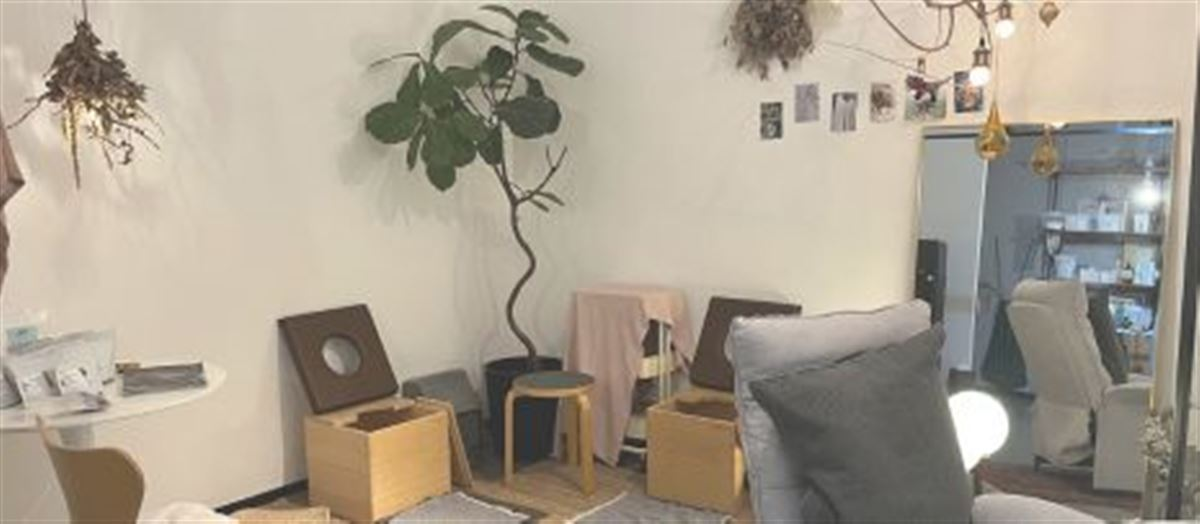
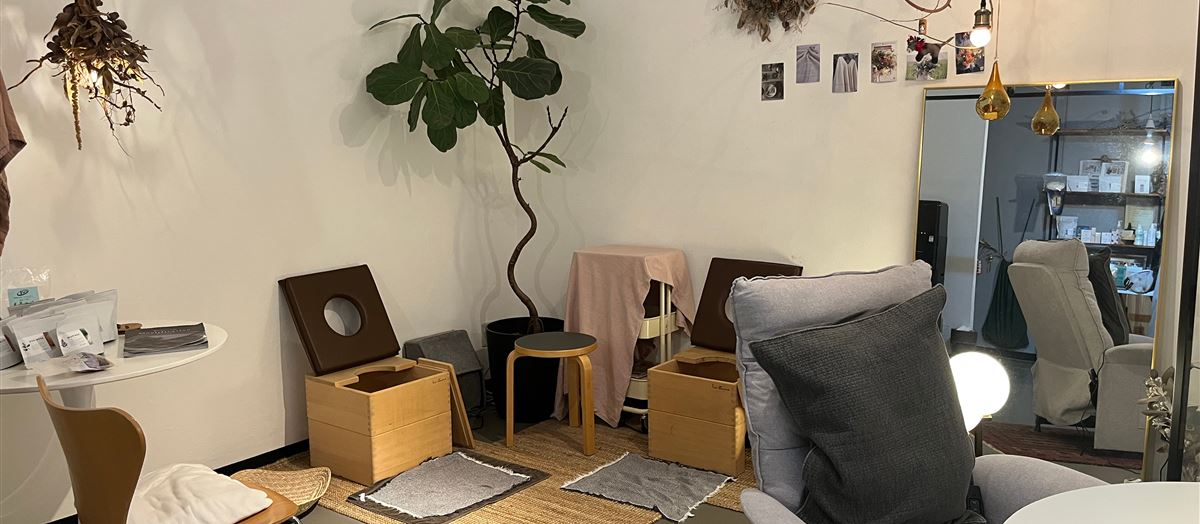
複数箇所の修正・差し替え(リード文簡略化/御塩写真位置統一/こだわり写真差し替え)
- index.html: リード文「はじめまして。ハダノコトサロンの河津順子です。」→「はじめまして。ハダノコトサロンです。」
- other.html: 御塩セクションの写真を価格表の下から本文と価格表の間に移動し、麹屋kinomamaセクションと同じ配置パターンに統一
- about.html: 「サロンのこだわり」セクションの写真をサロンのこだわり-1.jpgに差し替え(既存と同じ縦横比でトリミング、長辺1200px・品質80、白ヴェール適用)

diff --git a/other.html b/other.html
@@ -91,6 +91,7 @@
         <span class="ja">御塩</span>
       </h2>
       <p>天日だけでじっくり結晶化させ、1年以上寝かせてまろやかに仕上げた塩です。すくねっと公式パートナーとして取り扱っています。</p>
+      <div class="photo"><img src="assets/img/web/other-shio-sub.jpg" alt="御塩" width="1200" height="628" loading="lazy"></div>
       <ul class="price-list">
         <li><span>ソルトインダイヤモンド　30g（白湯・サプリ感覚に）</span><span class="price">4,500円</span></li>
         <li><span>ソルトインダイヤモンド　180g（白湯・サプリ感覚に）</span><span class="price">15,000円</span></li>
@@ -99,7 +100,6 @@
         <li><span>海の煌®（10年熟成）</span><span class="price">2,500円</span></li>
         <li><span>精の煌®（15年熟成）</span><span class="price">3,000円</span></li>
       </ul>
-      <div class="photo"><img src="assets/img/web/other-shio-sub.jpg" alt="御塩" width="1200" height="628" loading="lazy"></div>
     </div>
   </section>
 

diff --git a/index.html b/index.html
@@ -113,7 +113,7 @@
         <span class="ja">わたしたちの思い</span>
       </h2>
       <div class="poem">
-        <p>はじめまして。<br>ハダノコトサロンの河津順子です。</p>
+        <p>はじめまして。<br>ハダノコトサロンです。</p>
         <p>当サロンは、お一人おひとりと<br>ゆっくり向き合いたくて、<br>完全予約制・完全個室・<br>私ひとりで営んでいる小さなサロンです。</p>
         <p>目指しているのは、<br>その場かぎりの特別ではなく、<br>10年後も「今の自分がいちばん好き」と<br>思える素肌を、一緒に育てていくこと。</p>
         <p>がんばらなくていい、<br>お肌の土台づくりから始めませんか。</p>

diff --git a/about.html b/about.html
@@ -63,7 +63,7 @@
         <span class="sec-num">content 01</span>
         <span class="ja">サロンのこだわり</span>
       </h2>
-      <div class="photo photo--wide"><img src="assets/img/web/kodawari.jpg" alt="ハダノコトサロンのこだわりの店内" width="1200" height="524" loading="lazy"></div>
+      <div class="photo photo--veil photo--wide"><img src="assets/img/web/kodawari.jpg" alt="ハダノコトサロンのこだわりの店内" width="1200" height="524" loading="lazy"></div>
       <ul class="feature-list">
         <li>完全予約制・完全個室。ほかのお客さまと顔を合わせることはありません</li>
         <li>天然成分・ノンケミカル・弱酸性にこだわった「肌育」</li>
